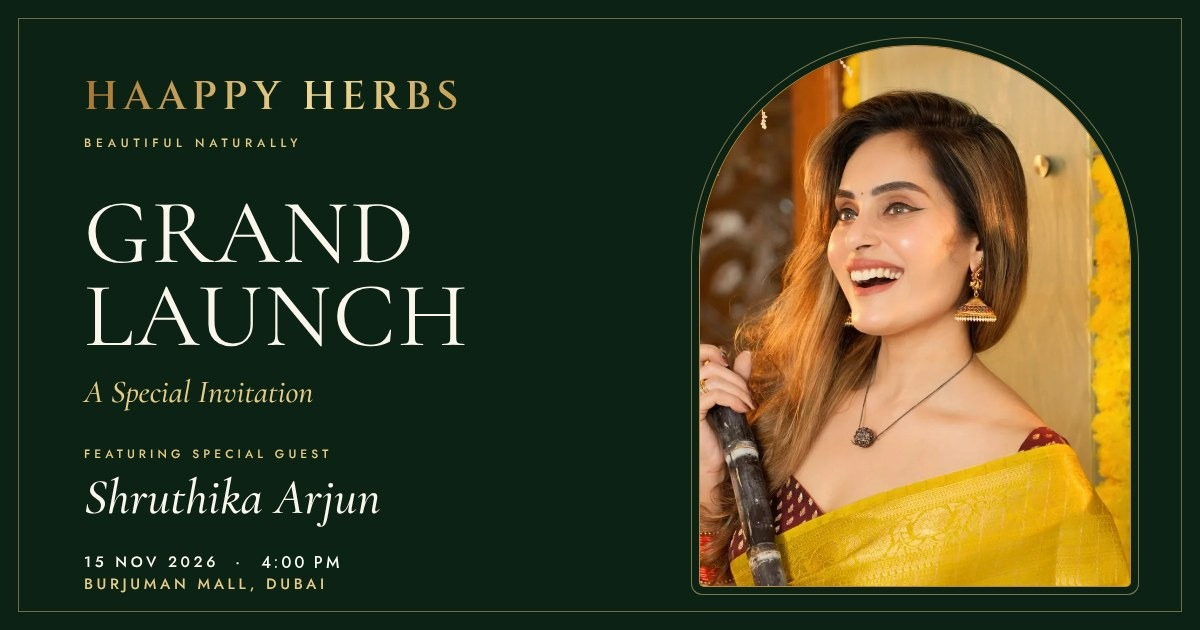
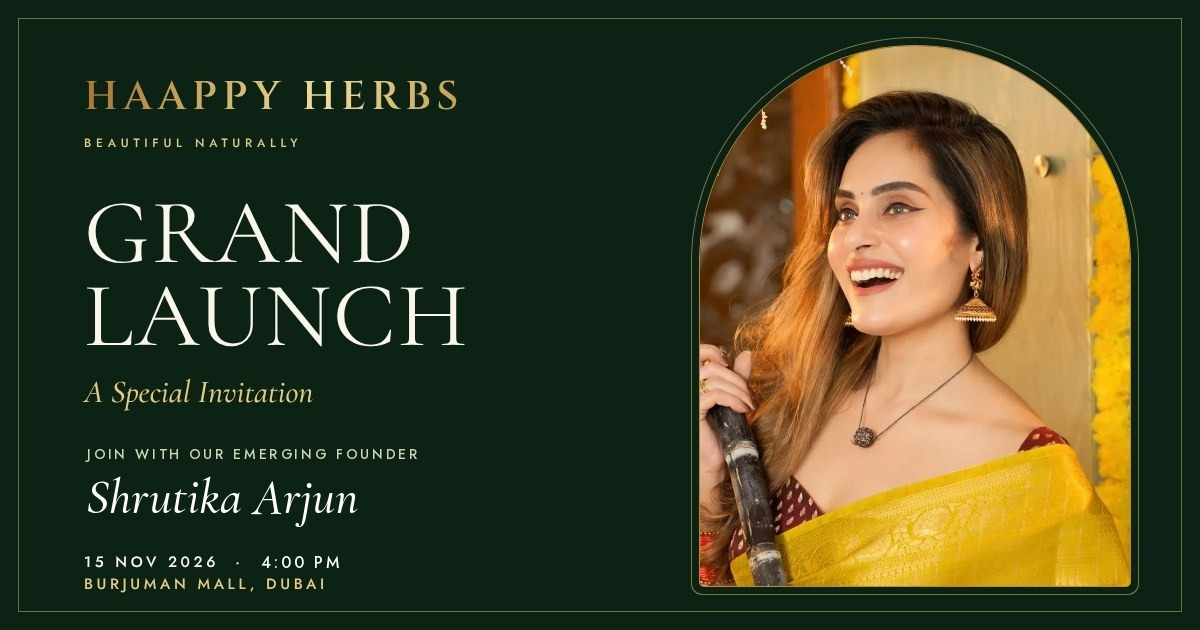
Add files via upload

Changed region(s): [[0.0617, 0.6937, 0.3392, 0.8444]]

diff --git a/components/Invitation.jsx b/components/Invitation.jsx
@@ -117,7 +117,7 @@ export default function Invitation() {
               <VideoFrame
                 src="/media/dubai.mp4"
                 poster="/media/dubai-poster.jpg"
-                label="Shruthika Arjun at BurJuman Mall, Dubai, as the store takes shape"
+                label="Shrutika Arjun at BurJuman Mall, Dubai, as the store takes shape"
                 caption="Our Dubai dream, taking shape"
               />
             </div>
@@ -163,7 +163,7 @@ export default function Invitation() {
 
             {/* Special guest */}
             <Reveal delay={0.05} className="mt-10">
-              <p className="eyebrow text-[10.5px] text-gold-deep">Special Guest</p>
+              <p className="eyebrow text-[10.5px] text-gold-deep">Join with our Emerging Founder</p>
               <div className="relative mx-auto mt-7 w-[min(62vw,250px)]">
                 <motion.div
                   initial={{ opacity: 0, scale: 1.06 }}
@@ -174,7 +174,7 @@ export default function Invitation() {
                 >
                   <img
                     src="/images/shruthika-portrait.webp"
-                    alt="Shruthika Arjun in a yellow silk saree, smiling"
+                    alt="Shrutika Arjun in a yellow silk saree, smiling"
                     width={800}
                     height={1000}
                     loading="lazy"
@@ -218,7 +218,7 @@ export default function Invitation() {
                 </motion.div>
               </div>
               <p className="mt-12 font-display text-[clamp(40px,11vw,56px)] font-medium italic leading-none text-forest">
-                Shruthika Arjun
+                Shrutika Arjun
               </p>
             </Reveal>
 
@@ -273,7 +273,7 @@ export default function Invitation() {
               <VideoFrame
                 src="/media/diwali.mp4"
                 poster="/media/diwali-poster.jpg"
-                label="Shruthika Arjun presents an exclusive silk saree collection"
+                label="Shrutika Arjun presents an exclusive silk saree collection"
                 caption="Drape yourself in exclusivity"
                 delay={0.15}
               />

diff --git a/app/layout.jsx b/app/layout.jsx
@@ -16,14 +16,14 @@ const siteUrl =
 
 const title = "Haappy Herbs Grand Launch · A Special Invitation";
 const description =
-  "You are warmly invited to the Grand Launch of Haappy Herbs – Beautiful Naturally, with Special Guest Shruthika Arjun. 15 November 2026, 4:00 PM · BurJuman Mall, 2nd Floor, Lobby E, Dubai.";
+  "You are warmly invited to the Grand Launch of Haappy Herbs – Beautiful Naturally, with our Emerging Founder Shrutika Arjun. 15 November 2026, 4:00 PM · BurJuman Mall, 2nd Floor, Lobby E, Dubai.";
 
 export const metadata = {
   metadataBase: new URL(siteUrl),
   title,
   description,
   applicationName: "Haappy Herbs",
-  keywords: ["Haappy Herbs", "Grand Launch", "Shruthika Arjun", "BurJuman Mall", "Dubai", "Ayurvedic skincare"],
+  keywords: ["Haappy Herbs", "Grand Launch", "Shrutika Arjun", "BurJuman Mall", "Dubai", "Ayurvedic skincare"],
   openGraph: {
     type: "website",
     url: "/",
@@ -31,7 +31,7 @@ export const metadata = {
     title,
     description,
     locale: "en_AE",
-    images: [{ url: "/og.jpg", width: 1200, height: 630, alt: "Haappy Herbs Grand Launch with Shruthika Arjun" }],
+    images: [{ url: "/og.jpg", width: 1200, height: 630, alt: "Haappy Herbs Grand Launch with Shrutika Arjun" }],
   },
   twitter: {
     card: "summary_large_image",
@@ -62,7 +62,7 @@ const eventJsonLd = {
     name: "BurJuman Mall",
     address: { "@type": "PostalAddress", streetAddress: "2nd Floor, Lobby E", addressLocality: "Dubai", addressCountry: "AE" },
   },
-  performer: { "@type": "Person", name: "Shruthika Arjun" },
+  performer: { "@type": "Person", name: "Shrutika Arjun" },
   organizer: { "@type": "Organization", name: "Haappy Herbs", url: "https://haappyherbs.ae" },
 };
 

diff --git a/components/Hero.jsx b/components/Hero.jsx
@@ -61,7 +61,7 @@ export default function Hero() {
           <CinemaVideo
             src="/media/hero.mp4"
             poster="/media/hero-poster.jpg"
-            label="Haappy Herbs brand film featuring Shruthika Arjun"
+            label="Haappy Herbs brand film featuring Shrutika Arjun"
             eager
             className="absolute inset-0 h-full w-full object-cover object-[50%_40%]"
             soundButtonClassName="bottom-4 right-4 lg:bottom-8 lg:right-8"
@@ -122,10 +122,10 @@ export default function Hero() {
 
         <motion.div {...rise(0.85)} className="mt-6 lg:mt-9">
           <p className="eyebrow text-[10px] text-gold-deep lg:text-[11px] lg:text-gold-light/90">
-            Featuring Special Guest
+            Join with our Emerging Founder
           </p>
           <p className="mt-1.5 font-display text-[34px] font-medium italic leading-none text-forest lg:text-[clamp(38px,3.2vw,54px)] lg:text-ivory">
-            Shruthika Arjun
+            Shrutika Arjun
           </p>
         </motion.div>
 

diff --git a/README.md b/README.md
@@ -3,7 +3,7 @@
 A two-section cinematic invitation (Next.js 15 + React 19 + Tailwind CSS 4 + Framer Motion + Lucide).
 
 - **Section 01 – Grand Launch**: landscape brand film (`public/media/hero.mp4`) — arched frame on phones, full-bleed cinema on desktop.
-- **Section 02 – The Invitation**: invitation card with Shruthika Arjun's photographs, the two portrait films (`dubai.mp4`, `diwali.mp4`), event details, Get Directions (Google Maps) and Add to Calendar (`/haappy-herbs-grand-launch.ics`, 15 Nov 2026 4:00 PM Dubai time), plus the four launch products (images served from the official haappyherbs.com Shopify CDN).
+- **Section 02 – The Invitation**: invitation card with Shrutika Arjun's photographs, the two portrait films (`dubai.mp4`, `diwali.mp4`), event details, Get Directions (Google Maps) and Add to Calendar (`/haappy-herbs-grand-launch.ics`, 15 Nov 2026 4:00 PM Dubai time), plus the four launch products (images served from the official haappyherbs.com Shopify CDN).
 
 ## Run locally
 ```bash
